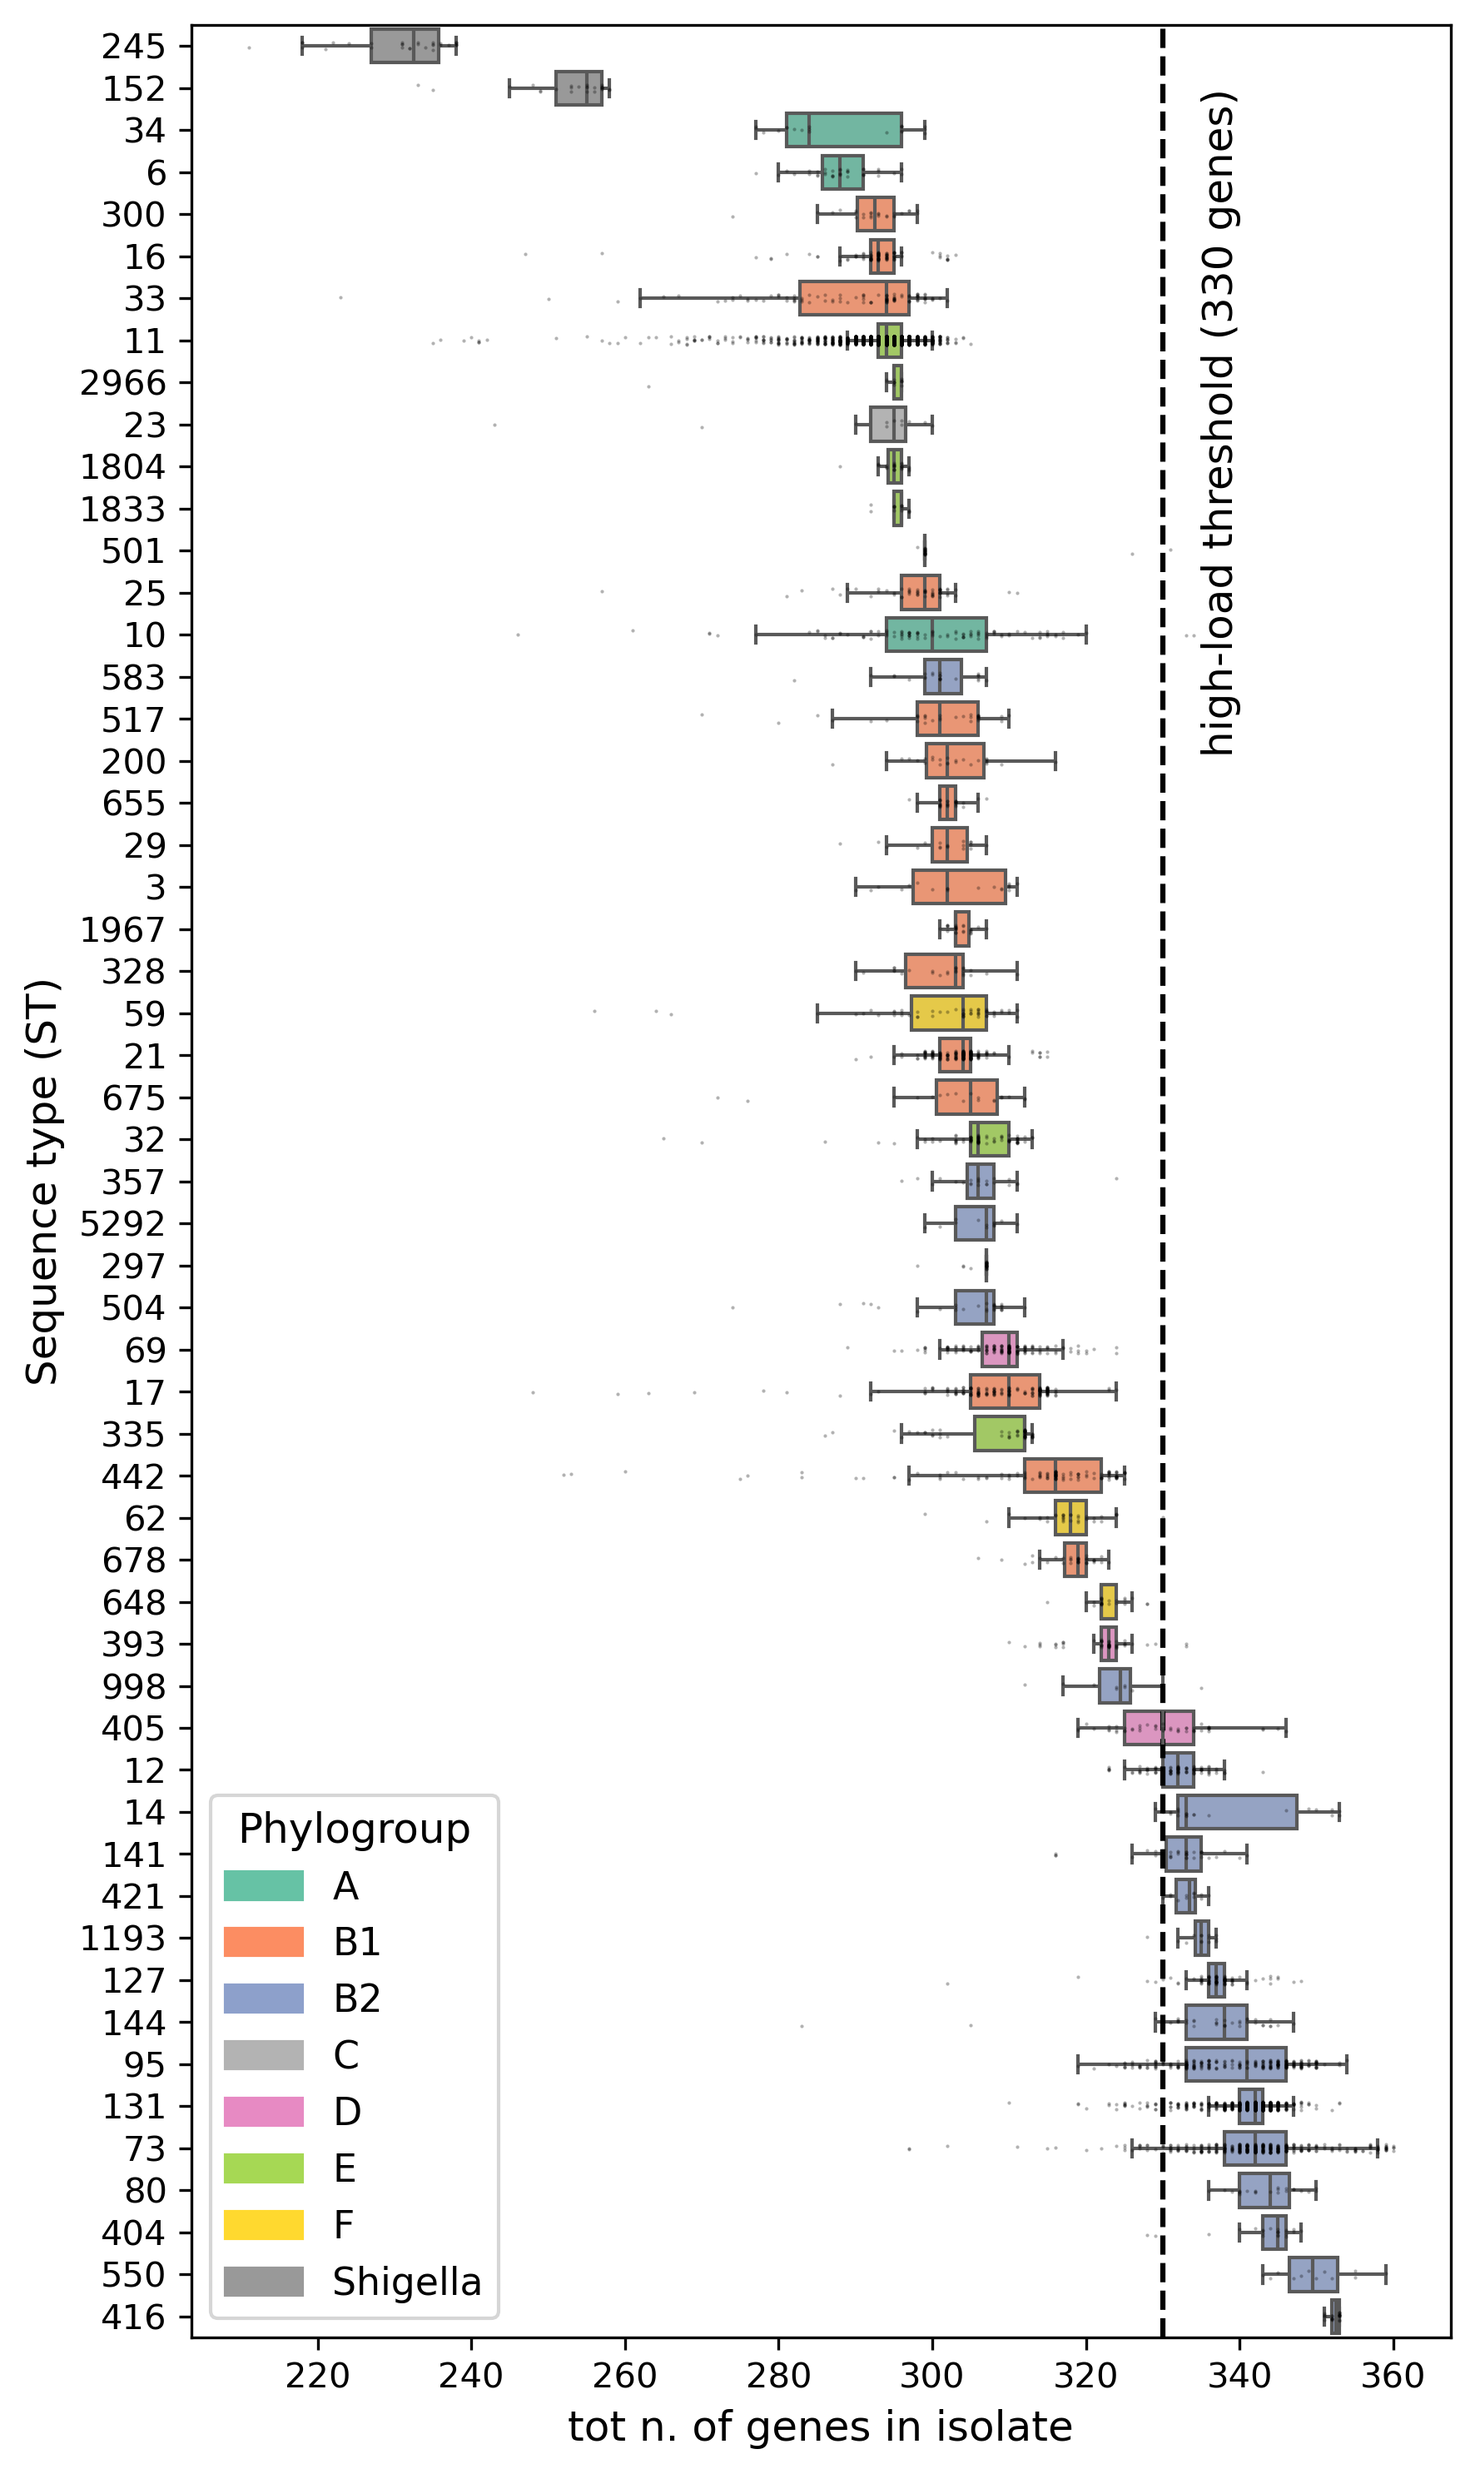
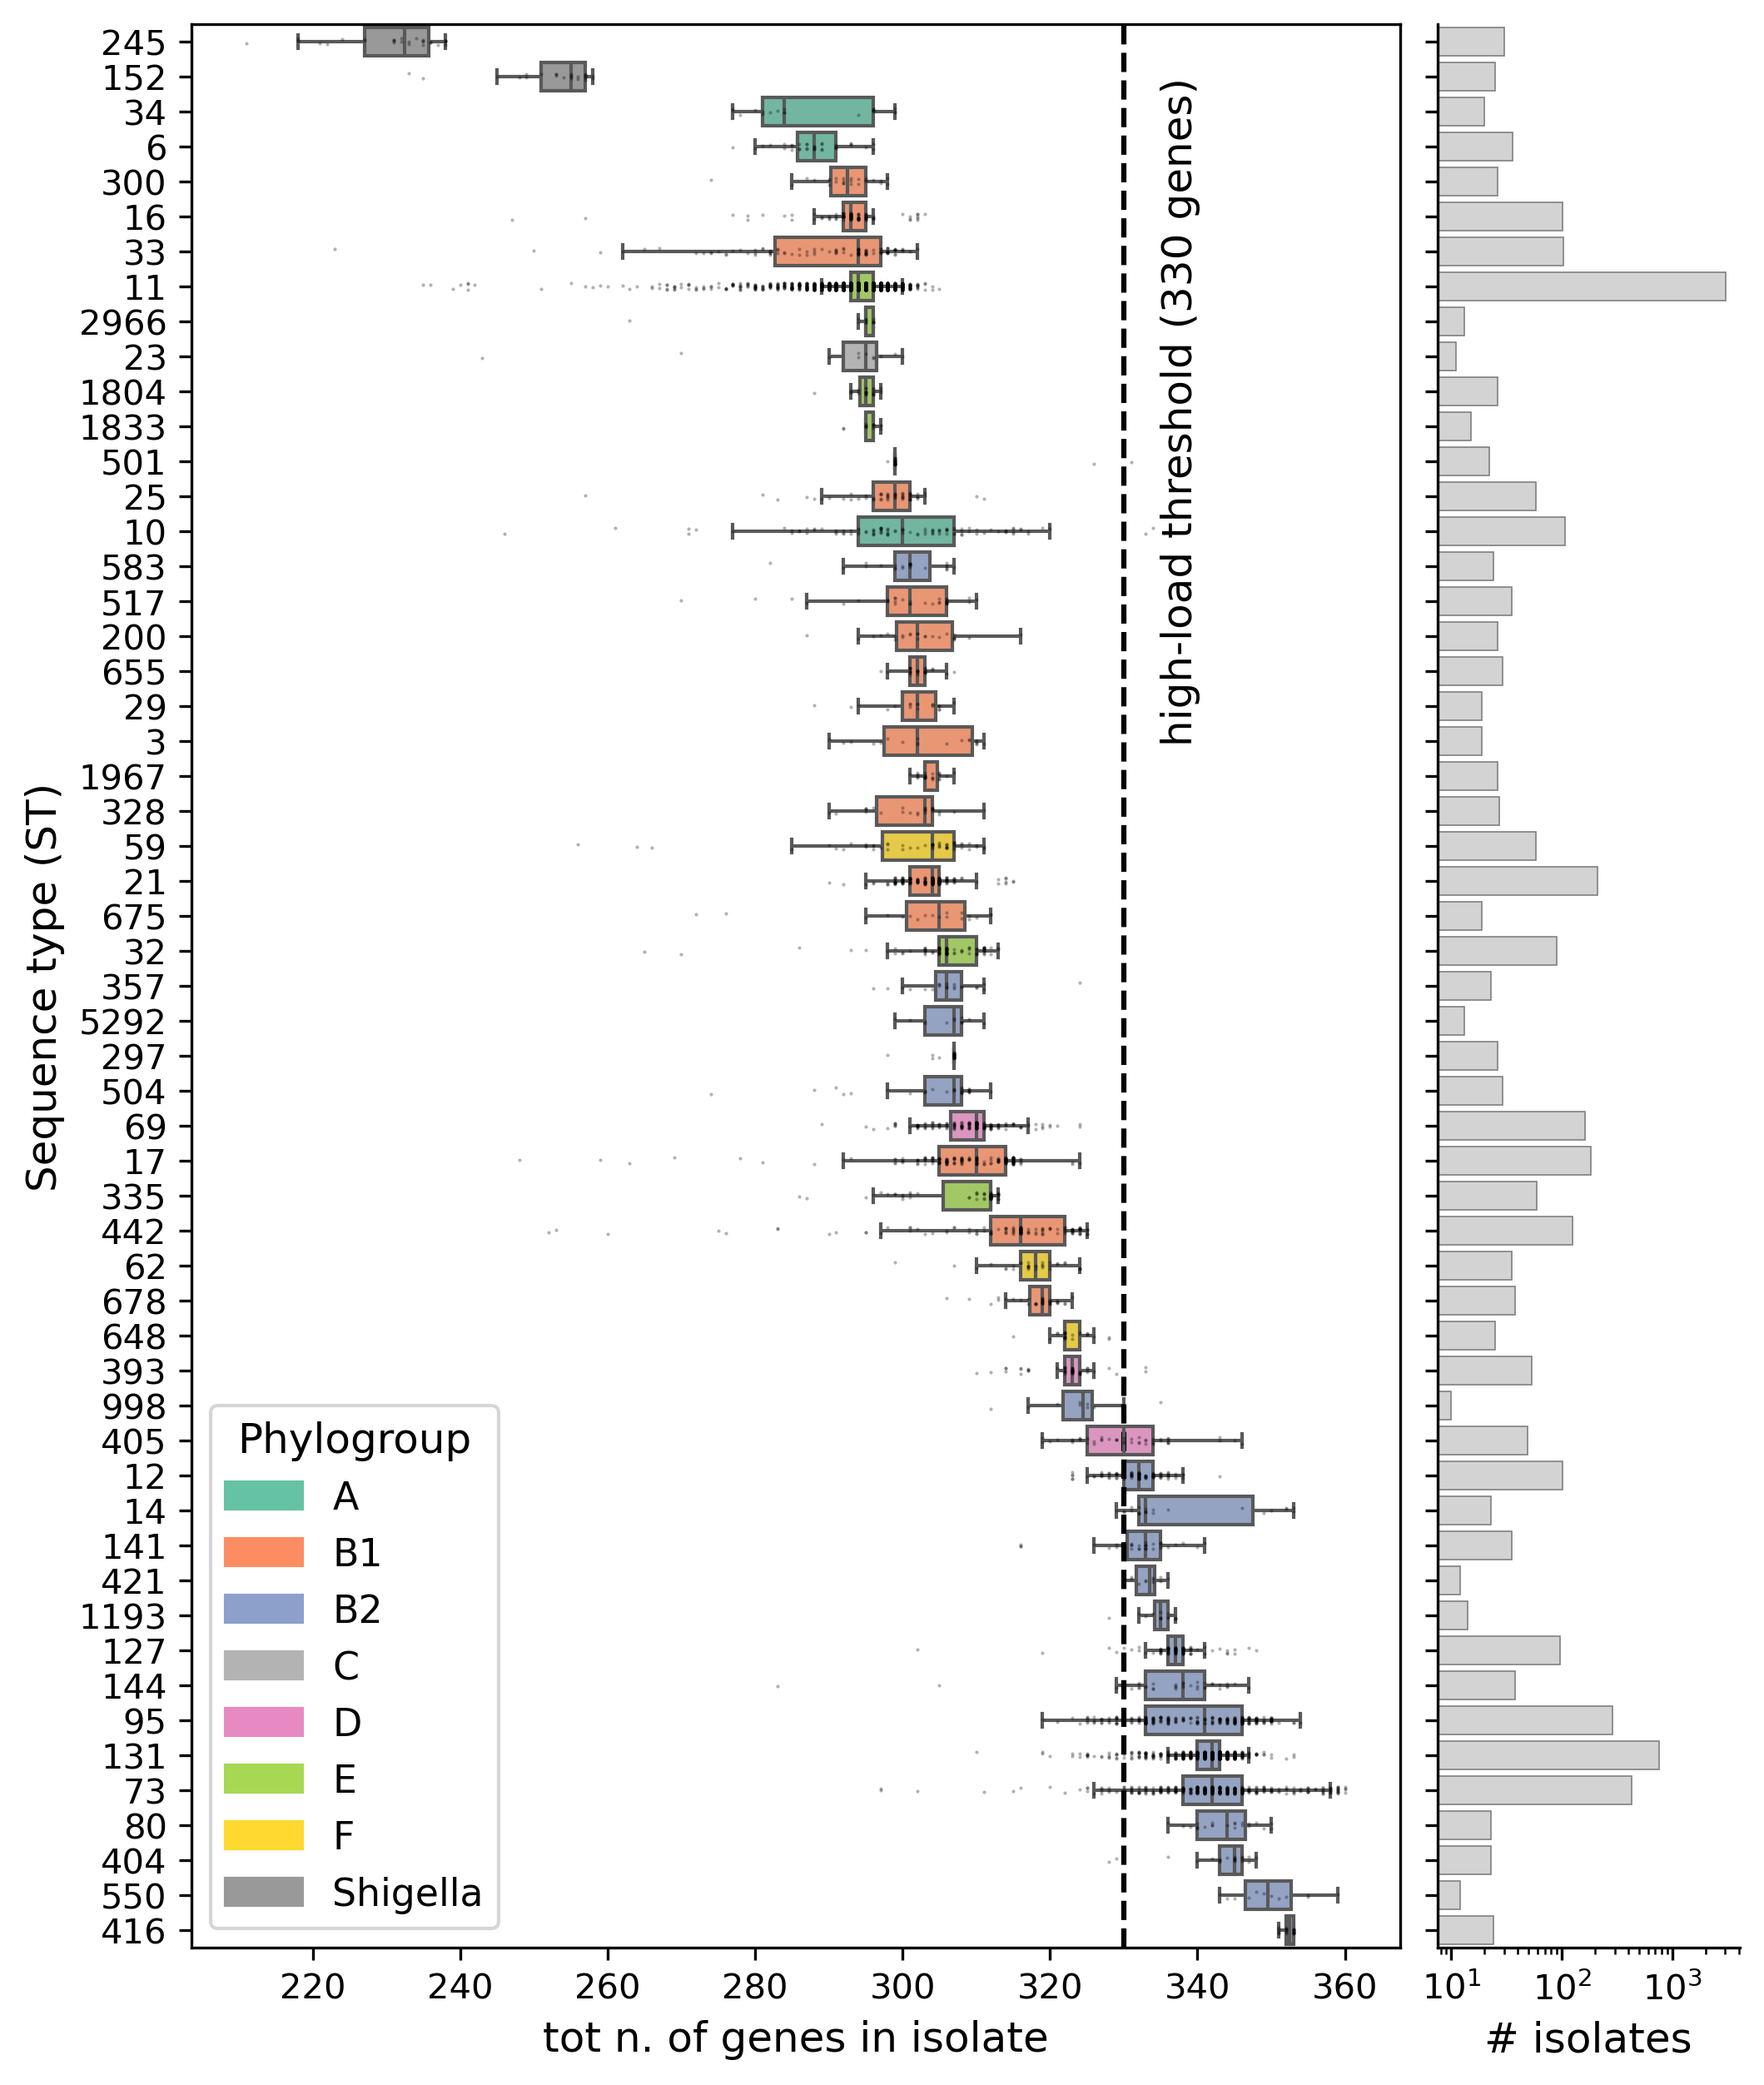
feat: remove extra figure

Changed region(s): [[0.3725, 0.0, 0.9932, 0.9968], [0.0, 0.0, 0.3725, 0.9968]]

diff --git a/scripts/plots/plot_st_boxplots.py b/scripts/plots/plot_st_boxplots.py
@@ -2,7 +2,7 @@
 
 For each Sequence Type with >= MIN_ST_SIZE isolates, plot the distribution of
 focal-gene counts per isolate. STs are colored by their dominant phylogroup.
-Produces two figures: (1) boxplot only; (2) boxplot + ST-size sidebar.
+A right-hand sidebar reports the per-ST isolate count on a log scale.
 """
 
 import argparse
@@ -35,8 +35,7 @@ def parse_args():
     p.add_argument("--pa", required=True, help="Focal-gene presence/absence CSV")
     p.add_argument("--gene-info", required=True, help="Focal gene_info CSV")
     p.add_argument("--metadata", required=True, help="Horesh F1 genome metadata CSV")
-    p.add_argument("--out-boxplot", required=True, nargs="+", help="Output path(s) for the boxplot figure (format inferred from extension; pass one per format)")
-    p.add_argument("--out-boxplot-with-counts", required=True, nargs="+", help="Output path(s) for the boxplot+counts figure")
+    p.add_argument("--out-boxplot", required=True, nargs="+", help="Output path(s) for the boxplot+counts figure (format inferred from extension; pass one per format)")
     p.add_argument("--high-load-threshold", type=int, required=True, help="Gene-count threshold marking 'high-load' isolates")
     return p.parse_args()
 
@@ -135,15 +134,7 @@ def main():
     st_order = count_df.groupby("ST")[col].median().sort_values().index
     palette = {st: PG_PALETTE.get(st_to_pg.get(st, "?"), DEFAULT_PG_COLOR) for st in st_order}
 
-    # Figure 1: boxplot only
-    fig, ax = plt.subplots(figsize=(6, 10))
-    draw_st_boxplot(ax, count_df, col, label, st_order, palette, st_to_pg, args.high_load_threshold)
-    plt.tight_layout()
-    save_fig(fig, args.out_boxplot)
-    print(f"Saved {args.out_boxplot}")
-
-    # Figure 2: boxplot + ST-size sidebar
-    fig2, (ax_box, ax_bar) = plt.subplots(
+    fig, (ax_box, ax_bar) = plt.subplots(
         1,
         2,
         figsize=(8, 10),
@@ -165,8 +156,8 @@ def main():
     ax_bar.spines[["top", "right"]].set_visible(False)
     ax_bar.set_ylim(len(st_order) - 0.5, -0.5)
     plt.tight_layout()
-    save_fig(fig2, args.out_boxplot_with_counts)
-    print(f"Saved {args.out_boxplot_with_counts}")
+    save_fig(fig, args.out_boxplot)
+    print(f"Saved {args.out_boxplot}")
 
 
 if __name__ == "__main__":
